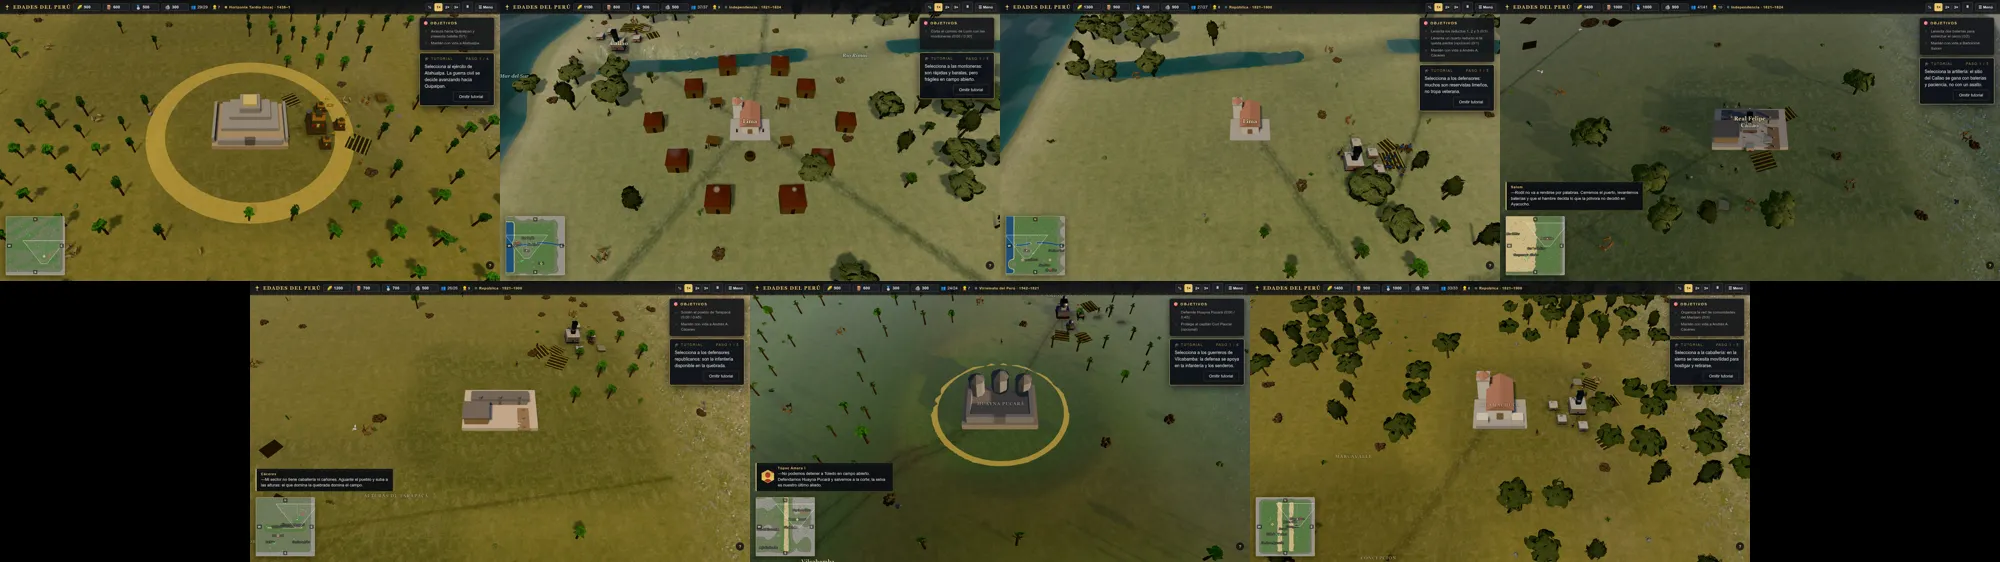
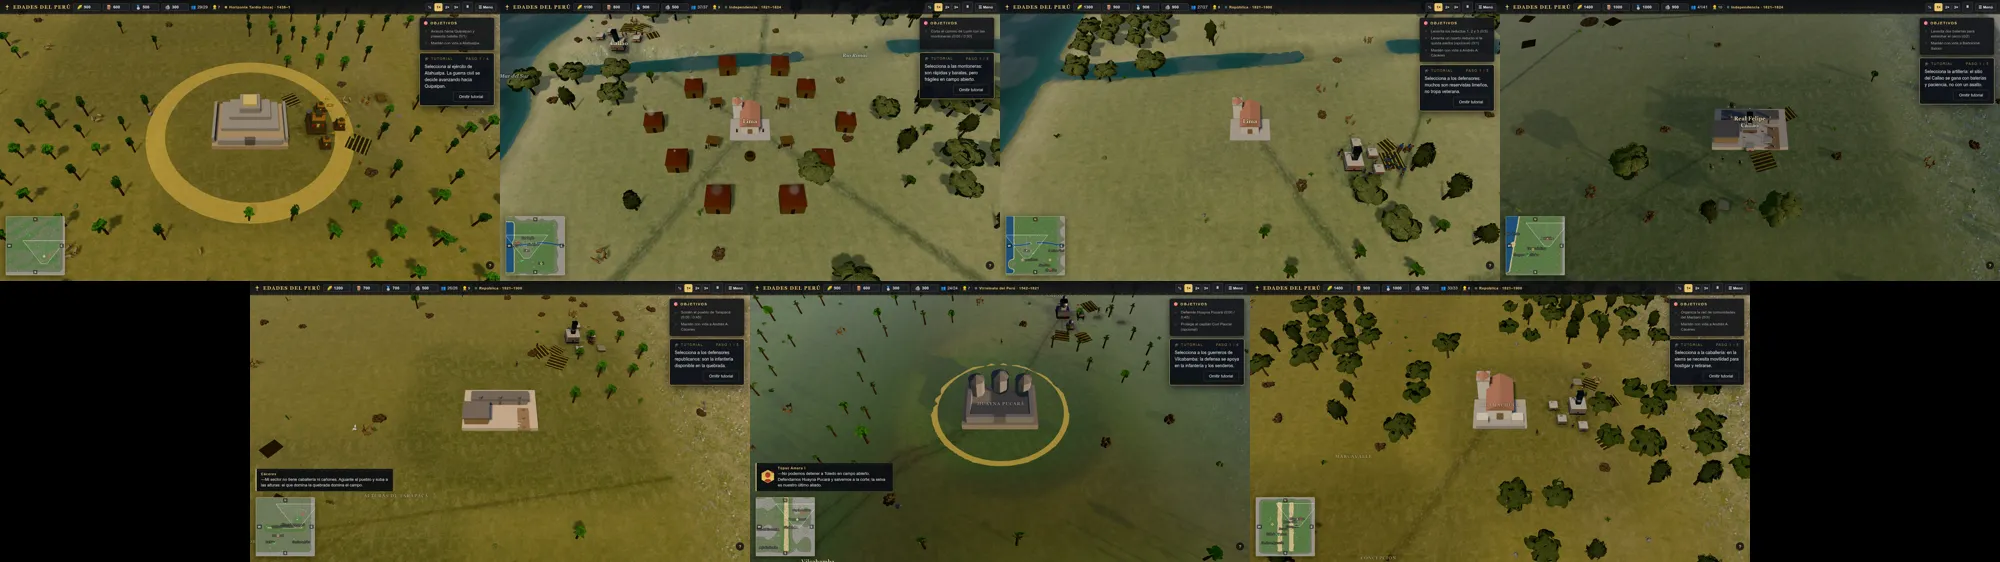
fix: keep the Callao bay and reach the shore with the Rimac
Third review pass:
- San Lorenzo used a normalised ellipse distance against metre thresholds, so the islet mask covered the whole bay and forced every cell to 2.9 m: the bay vanished (0 water cells vs 1,922 in the base). The islet is now a metre-scale disc and the coast-mission test asserts water survives the reshape, not only that dry missions stay dry.
- The Rimac carve started at x 38, leaving the mouth dry at 6 m; the mask now reaches the shore at x 28 so the channel joins the sea.
- Pad test samples 12 m (the Cusco footprint corner) instead of 10 m, and the Brena cap comment records the measured range.

diff --git a/src/model/defs/lima1821Heightmap.ts b/src/model/defs/lima1821Heightmap.ts
@@ -7,7 +7,7 @@ export const LIMA1821_HEIGHTMAP_SIZE = 129;
 export const LIMA1821_HEIGHTMAP_WORLD_SIZE = 256;
 export const LIMA1821_HEIGHTMAP_SCALE = 0.001;
 const B64 =
[2 lines of base64/hex data omitted]
 export const LIMA1821_HEIGHTMAP = decodeHeightmap(B64, 16641, LIMA1821_HEIGHTMAP_SCALE);
 /** Mission heightfield: the base site paint and river, with this mission's relief. */
 export const LIMA1821_HEIGHTFIELD: AuthoredHeightField = {

diff --git a/src/model/defs/mirafloresHeightmap.ts b/src/model/defs/mirafloresHeightmap.ts
@@ -7,7 +7,7 @@ export const MIRAFLORES_HEIGHTMAP_SIZE = 129;
 export const MIRAFLORES_HEIGHTMAP_WORLD_SIZE = 256;
 export const MIRAFLORES_HEIGHTMAP_SCALE = 0.001;
 const B64 =
[2 lines of base64/hex data omitted]
 export const MIRAFLORES_HEIGHTMAP = decodeHeightmap(B64, 16641, MIRAFLORES_HEIGHTMAP_SCALE);
 /** Mission heightfield: the base site paint and river, with this mission's relief. */
 export const MIRAFLORES_HEIGHTFIELD: AuthoredHeightField = {

diff --git a/src/model/defs/callaoHeightmap.ts b/src/model/defs/callaoHeightmap.ts
@@ -7,7 +7,7 @@ export const CALLAO_HEIGHTMAP_SIZE = 129;
 export const CALLAO_HEIGHTMAP_WORLD_SIZE = 256;
 export const CALLAO_HEIGHTMAP_SCALE = 0.001;
 const B64 =
[2 lines of base64/hex data omitted]
 export const CALLAO_HEIGHTMAP = decodeHeightmap(B64, 16641, CALLAO_HEIGHTMAP_SCALE);
 /** Mission heightfield: the base site paint and river, with this mission's relief. */
 export const CALLAO_HEIGHTFIELD: AuthoredHeightField = {

diff --git a/tests/geographic-heightfields.test.ts b/tests/geographic-heightfields.test.ts
@@ -13,27 +13,27 @@ interface Case {
   override: AuthoredHeightField;
 }
 
-const CASES: Array<{ id: string; size: number; hasRiver: boolean }> = [
-  { id: 'm6b_guerra_civil', size: 257, hasRiver: false },
-  { id: 'm_lima_1821', size: 129, hasRiver: true },
-  { id: 'm_miraflores', size: 129, hasRiver: true },
-  { id: 'm_real_felipe', size: 129, hasRiver: false },
-  { id: 'm_tarapaca', size: 257, hasRiver: false },
-  { id: 'm_vilcabamba', size: 257, hasRiver: false },
-  { id: 'm_brena', size: 257, hasRiver: false },
+const CASES: Array<{ id: string; size: number; hasRiver: boolean; keepsWater: boolean }> = [
+  { id: 'm6b_guerra_civil', size: 257, hasRiver: false, keepsWater: false },
+  { id: 'm_lima_1821', size: 129, hasRiver: true, keepsWater: true },
+  { id: 'm_miraflores', size: 129, hasRiver: true, keepsWater: true },
+  { id: 'm_real_felipe', size: 129, hasRiver: false, keepsWater: true },
+  { id: 'm_tarapaca', size: 257, hasRiver: false, keepsWater: false },
+  { id: 'm_vilcabamba', size: 257, hasRiver: false, keepsWater: false },
+  { id: 'm_brena', size: 257, hasRiver: false, keepsWater: false },
 ];
 
 const SAMPLE_STEPS = 65;
 
 const RING: Array<[number, number]> = [
-  [10, 0],
-  [-10, 0],
-  [0, 10],
-  [0, -10],
-  [7, 7],
-  [-7, 7],
-  [7, -7],
-  [-7, -7],
+  [12, 0],
+  [-12, 0],
+  [0, 12],
+  [0, -12],
+  [8.5, 8.5],
+  [-8.5, 8.5],
+  [8.5, -8.5],
+  [-8.5, -8.5],
 ];
 
 function countWater(field: AuthoredHeightField): number {
@@ -138,13 +138,18 @@ describe('geographic phase 1 heightfields', () => {
     }
   });
 
-  it('does not flood a mission the base field left dry', () => {
-    for (const { id } of CASES) {
+  it('keeps the coast missions wet and the inland missions dry', () => {
+    for (const { id, keepsWater } of CASES) {
       const { base, override } = resolve(id);
-      const dryBase = countWater(base) === 0;
-      if (!dryBase || override.river) continue;
-      // A carved channel below the waterline with no river/ford metadata splits the map in two.
-      expect(countWater(override), id).toBe(0);
+      const water = countWater(override);
+      if (keepsWater) {
+        // The bay or sea must survive the reshape: a lost coastline is as wrong as a new lake.
+        expect(countWater(base), `${id} base`).toBeGreaterThan(0);
+        expect(water, id).toBeGreaterThan(0);
+      } else if (countWater(base) === 0 && !override.river) {
+        // A carved channel below the waterline with no river/ford metadata splits the map in two.
+        expect(water, id).toBe(0);
+      }
     }
   });
 

diff --git a/scripts/build_geographic_heightmaps.py b/scripts/build_geographic_heightmaps.py
@@ -52,9 +52,10 @@ def carve_river(h: float, x: float, z: float, bridge_x: float) -> float:
     """Cut the Rímac into the finished landform (never raising it) with the bridge bar left wadeable.
 
     Applied last, as scripts/build_lima_heightmap.py does, so the wet channel follows the whole
-    inherited `LIMA_RIVER_PATH` instead of being filled back in by the hills that follow it.
+    inherited `LIMA_RIVER_PATH` instead of being filled back in by the hills that follow it. The
+    mask reaches the shore (x 28) so the mouth joins the sea instead of stopping a few metres inland.
     """
-    mask = (1.0 - smooth(2.5, 6.5, abs(z - rimac_z(x)))) * smooth(38.0, 48.0, x)
+    mask = (1.0 - smooth(2.5, 6.5, abs(z - rimac_z(x)))) * smooth(28.0, 40.0, x)
     bed = 1.0 + (1.0 - smooth(9.0, 16.0, abs(x - bridge_x))) * 2.3
     return h * (1.0 - mask) + min(h, bed) * mask
 
@@ -174,8 +175,8 @@ def callao(x: float, z: float) -> float:
     h = 3.5 + 0.28 * noise(x, z, 2.6)
     bay = 1.0 - smooth(26.0, 48.0, x + (z - 96) * 0.18)
     h = h * (1.0 - bay) + 0.4 * bay
-    # San Lorenzo: the low island that shelters the bay.
-    island = 1.0 - smooth(7.0, 13.0, math.hypot((x - 30) / 11, (z - 122) / 26))
+    # San Lorenzo: the low island that shelters the bay (un-normalised metres, so it stays an islet).
+    island = 1.0 - smooth(9.0, 14.0, math.hypot(x - 30, z - 122))
     h = h * (1.0 - island) + 2.9 * island
     # The Real Felipe terrace sits east of the bay, on the same pad elevation as the Arica fort.
     terrace = smooth(150.0, 170.0, x) * (1.0 - smooth(206.0, 222.0, x))

diff --git a/PROVENANCE.md b/PROVENANCE.md
@@ -471,7 +471,7 @@ slot is absent (offline / without assets).
 
 ### Geographic identity Phase 1 evidence (in-engine contact sheet)
 
-- **Location**: `docs/media/geographic-identity-phase1.webp` (2000x562 WebP q80, 101 KB).
+- **Location**: `docs/media/geographic-identity-phase1.webp` (2000x562 WebP q80, 100 KB).
 - **Source**: `node scripts/screenshot.mjs phase1-<id> --url='/?mission=<id>&intro=0&fog=0&seed=777' --click
 --wait=7000 --site` for all seven Phase 1 missions (`m6b_guerra_civil`, `m_lima_1821`, `m_miraflores`,
   `m_real_felipe`, `m_tarapaca`, `m_vilcabamba`, `m_brena`); tiled 4 + 3 (centred) with ffmpeg at 500x281 per
